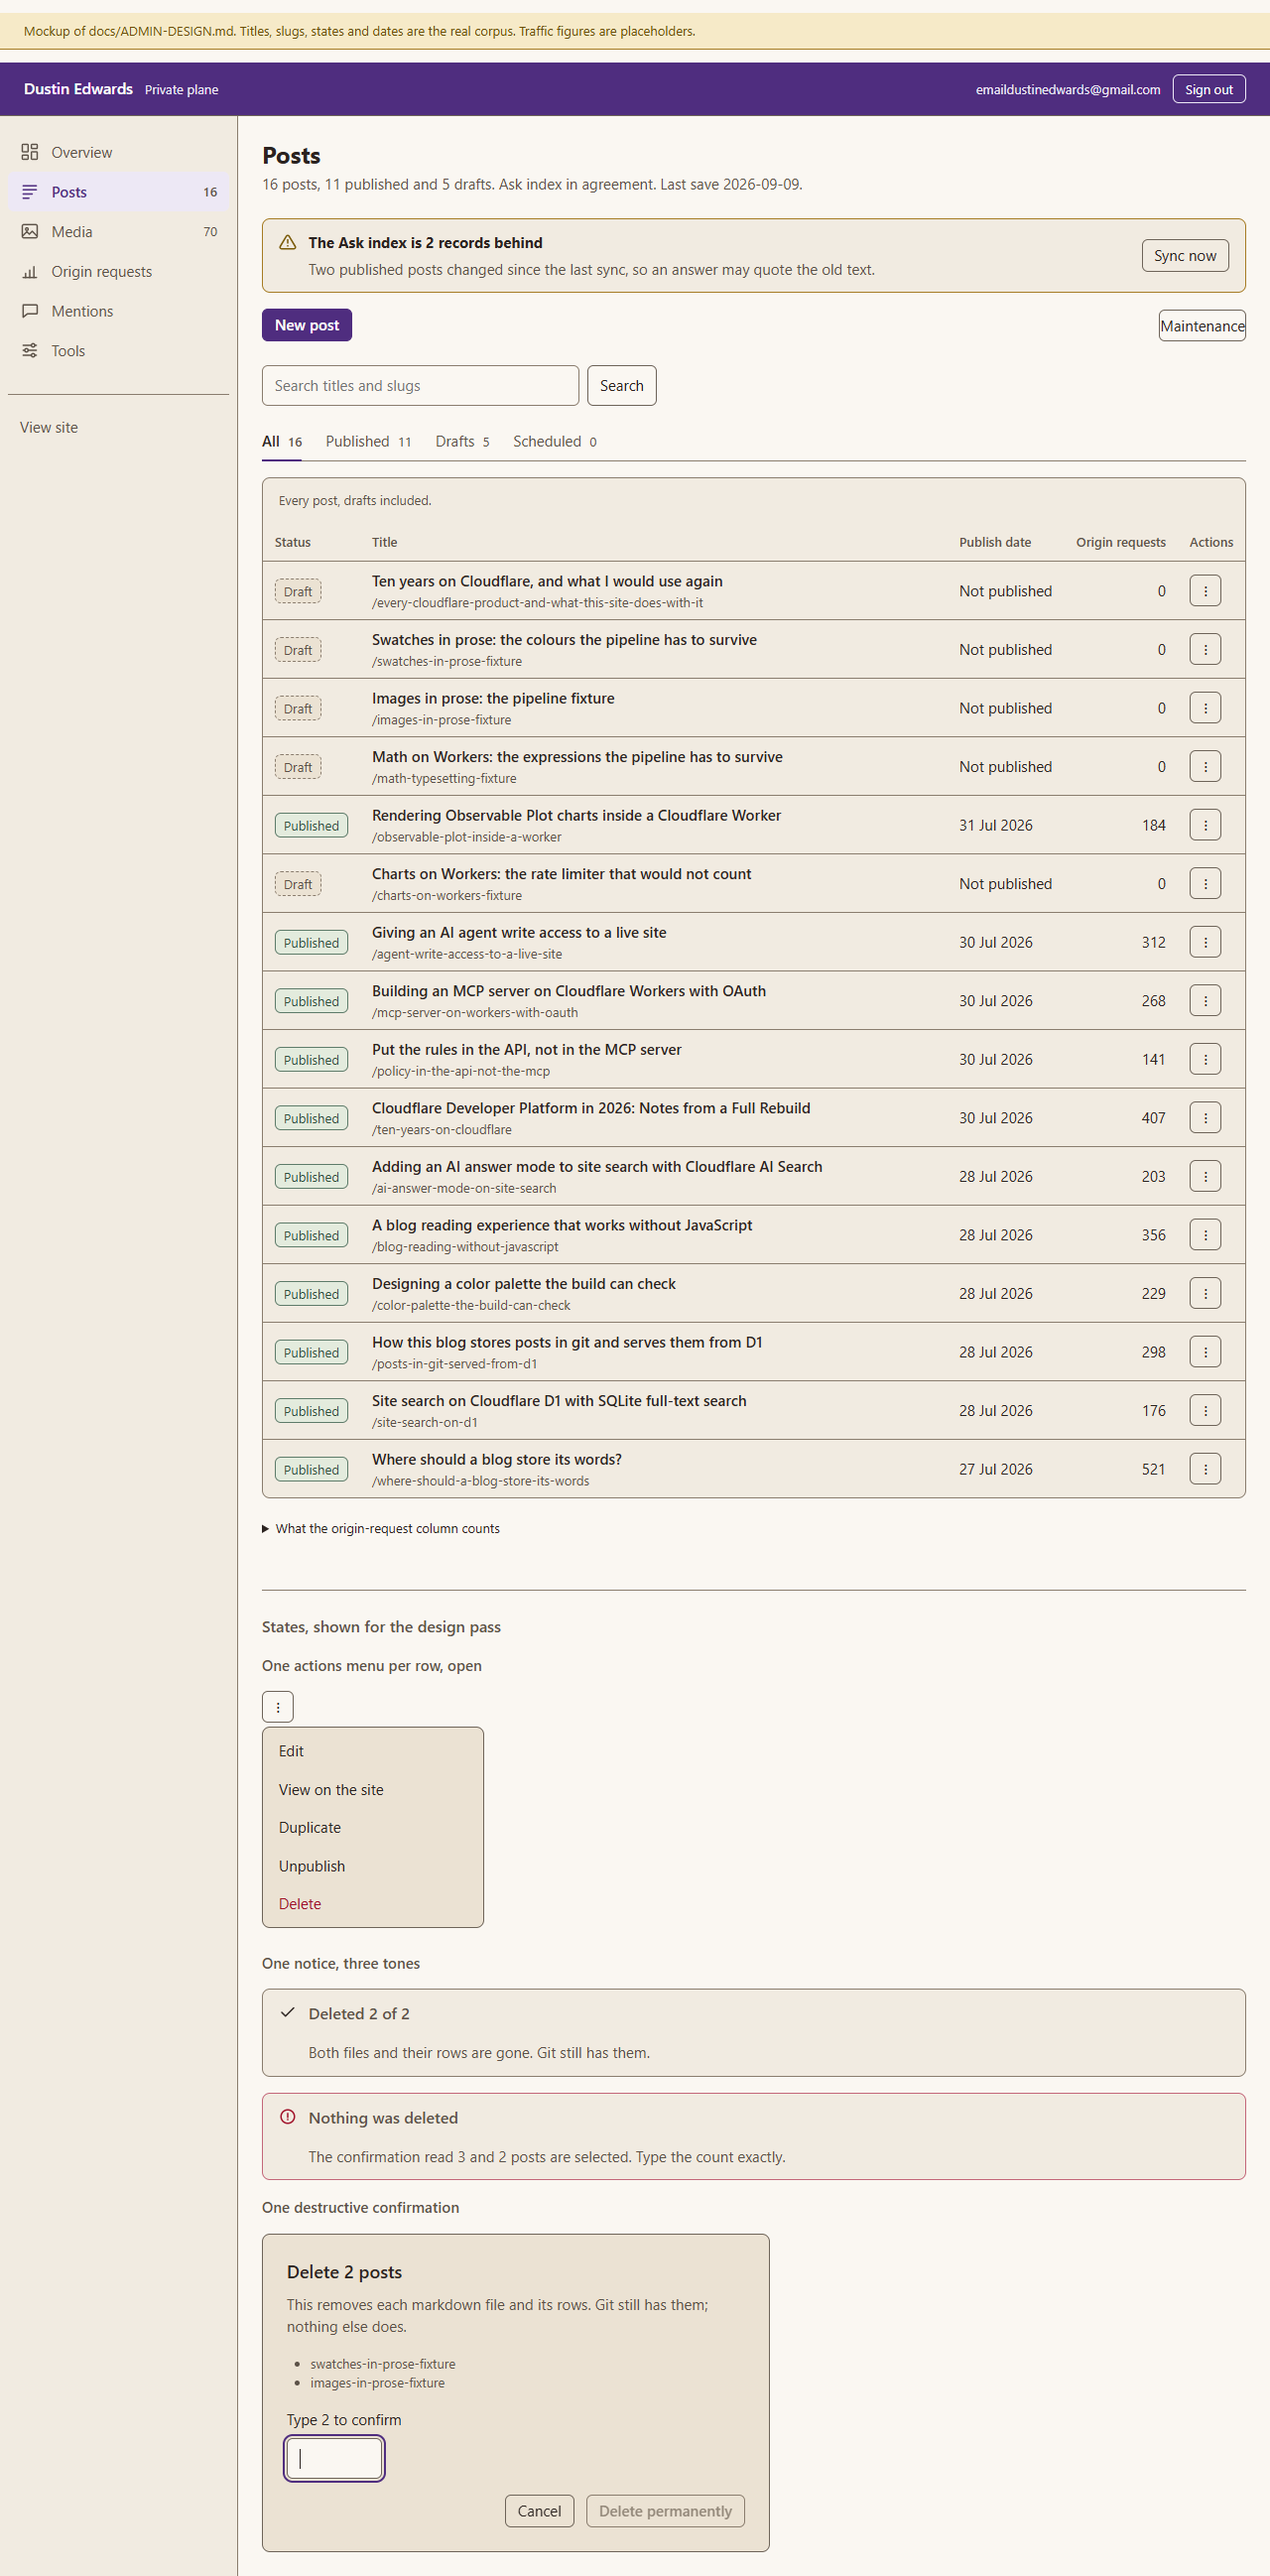
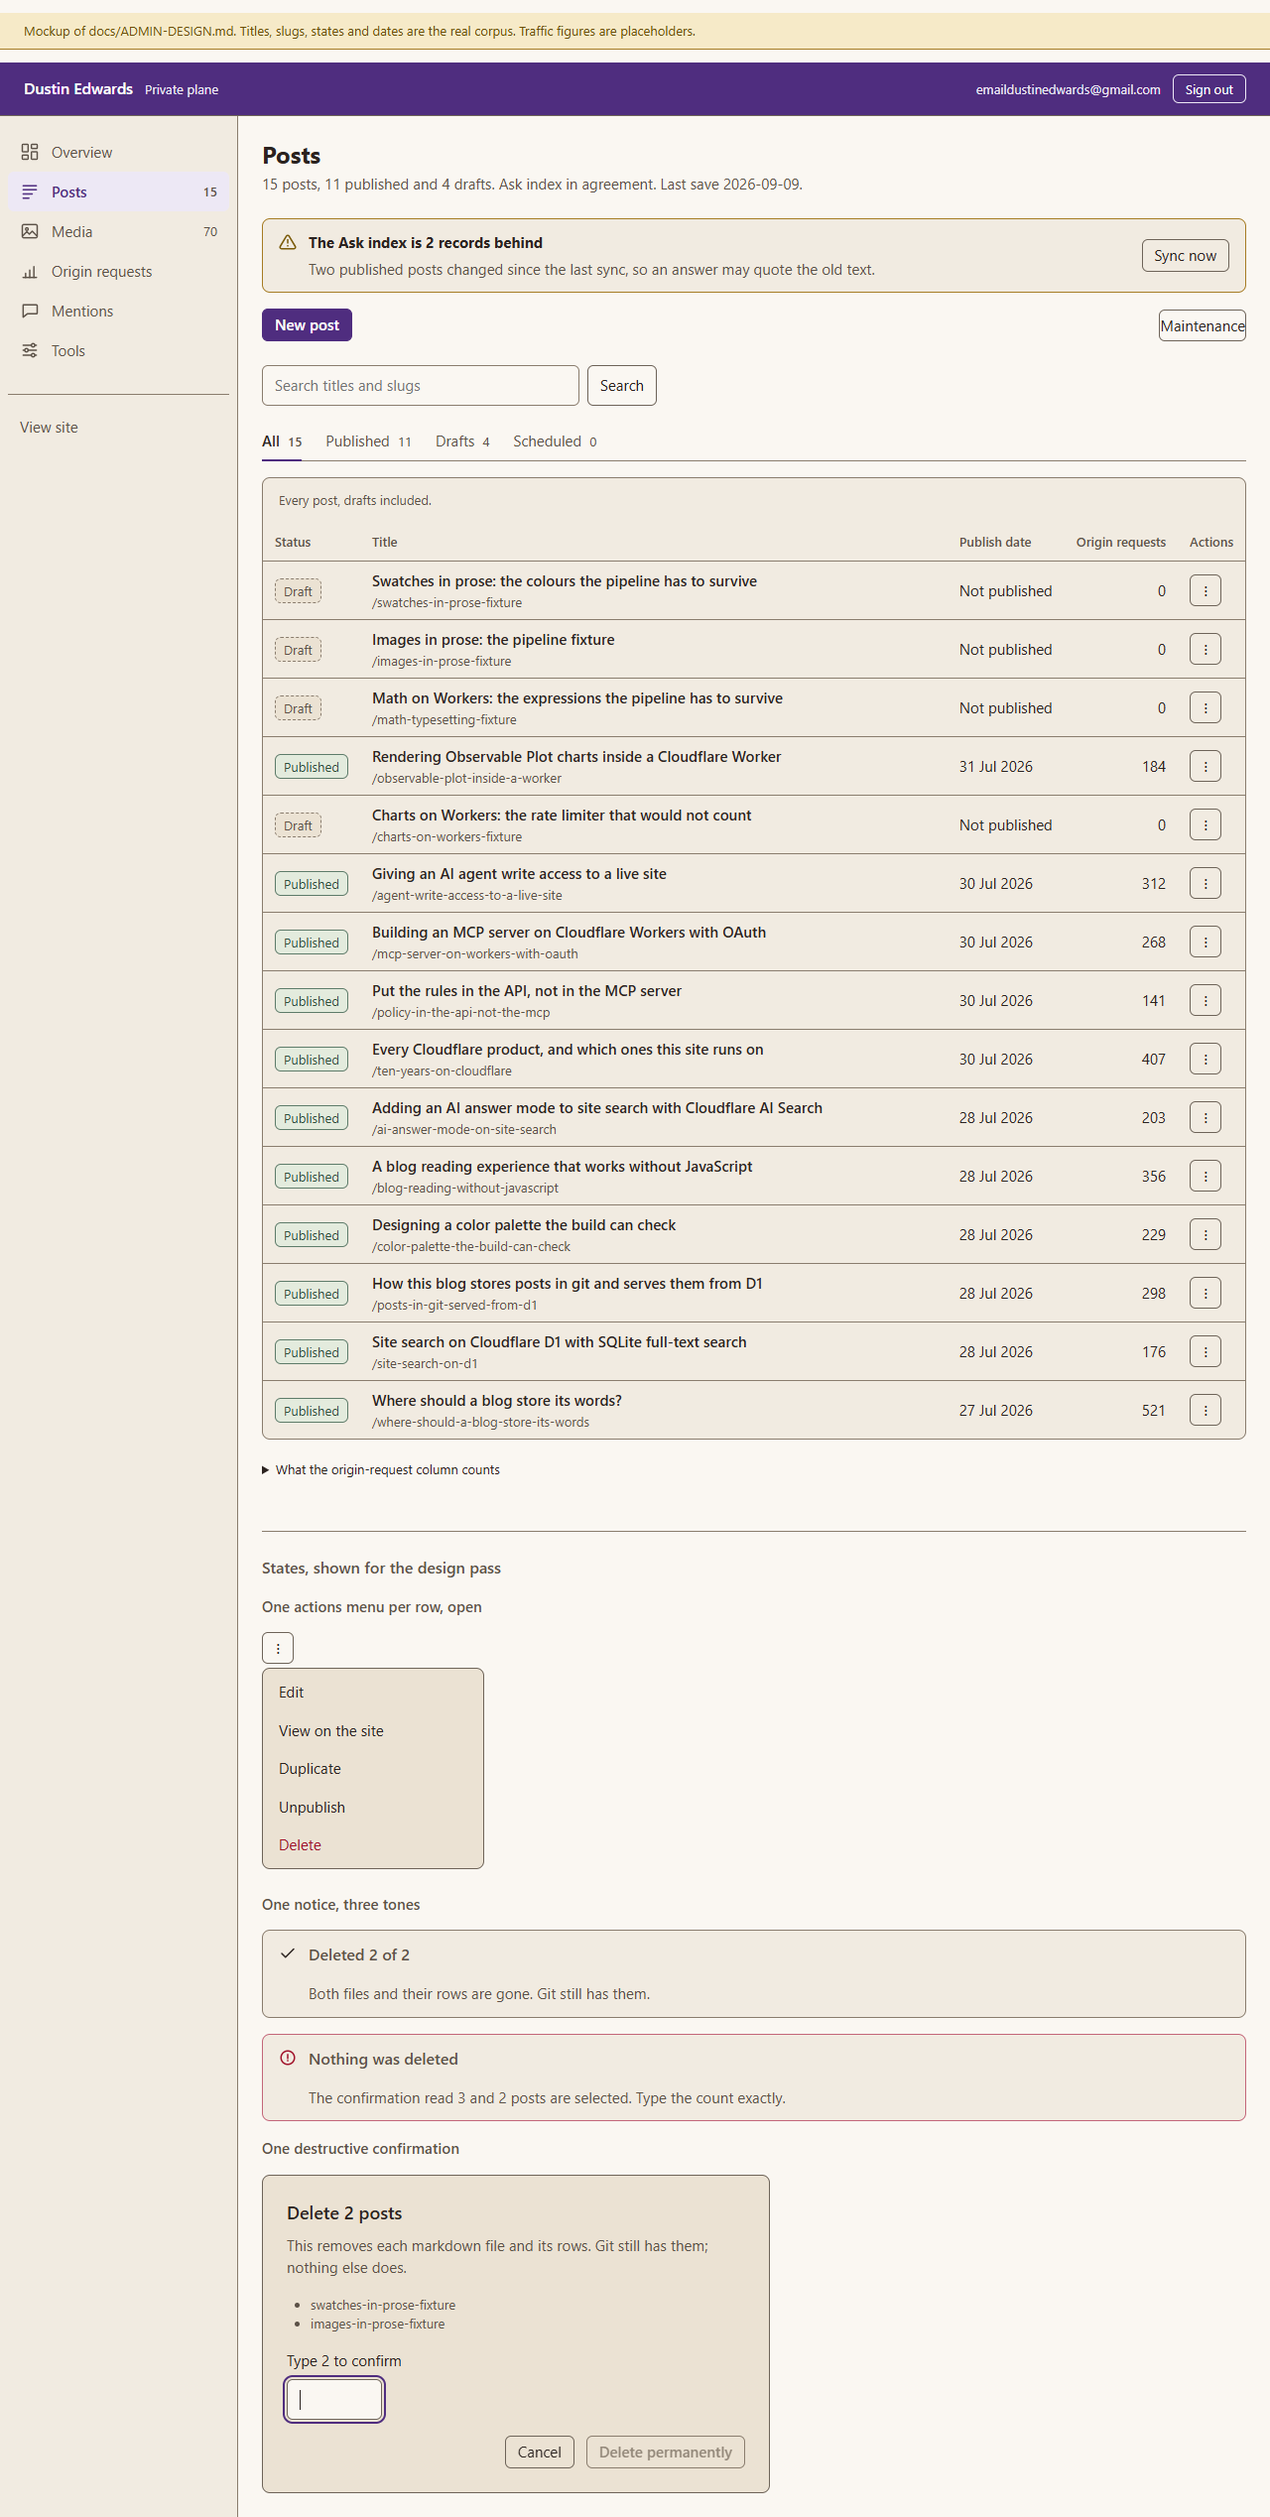
Re-measure the mockup corpus after the flagship draft was removed
The mockups were built against a clone that was two commits behind: the seat
removed every-cloudflare-product-and-what-this-site-does-with-it and retitled
ten-years-on-cloudflare in 85113a6. Fifteen posts, eleven published and four
drafts, re-read off content/posts after the rebase. All eight screenshots
re-rendered.

diff --git a/docs/admin-mockups/posts.html b/docs/admin-mockups/posts.html
@@ -271,7 +271,7 @@ dialog.confirm input[type="text"] {
 
   <nav class="rail" aria-label="Admin sections">
     <a href="#"><svg viewBox="0 0 24 24" fill="none" stroke="currentColor" stroke-width="1.75" aria-hidden="true"><rect x="3" y="3" width="7" height="9" rx="1"/><rect x="14" y="3" width="7" height="5" rx="1"/><rect x="14" y="12" width="7" height="9" rx="1"/><rect x="3" y="16" width="7" height="5" rx="1"/></svg>Overview</a>
-    <a href="#" aria-current="page"><svg viewBox="0 0 24 24" fill="none" stroke="currentColor" stroke-width="1.75" stroke-linecap="round" aria-hidden="true"><path d="M4 5h16M4 10h16M4 15h11M4 20h7"/></svg>Posts<span class="count">16</span></a>
+    <a href="#" aria-current="page"><svg viewBox="0 0 24 24" fill="none" stroke="currentColor" stroke-width="1.75" stroke-linecap="round" aria-hidden="true"><path d="M4 5h16M4 10h16M4 15h11M4 20h7"/></svg>Posts<span class="count">15</span></a>
     <a href="#"><svg viewBox="0 0 24 24" fill="none" stroke="currentColor" stroke-width="1.75" stroke-linecap="round" stroke-linejoin="round" aria-hidden="true"><rect x="3" y="4" width="18" height="16" rx="2"/><circle cx="8.5" cy="9.5" r="1.5"/><path d="m4 17 4.5-4.5 3 3 3.5-3.5 5 5"/></svg>Media<span class="count">70</span></a>
     <a href="#"><svg viewBox="0 0 24 24" fill="none" stroke="currentColor" stroke-width="1.75" stroke-linecap="round" aria-hidden="true"><path d="M4 20h16"/><path d="M7 20v-5M12 20v-9M17 20v-13"/></svg>Origin requests</a>
     <a href="#"><svg viewBox="0 0 24 24" fill="none" stroke="currentColor" stroke-width="1.75" stroke-linejoin="round" aria-hidden="true"><path d="M4 5h16a1 1 0 0 1 1 1v9a1 1 0 0 1-1 1H9l-5 4V6a1 1 0 0 1 1-1z"/></svg>Mentions</a>
@@ -284,7 +284,7 @@ dialog.confirm input[type="text"] {
 
     <div class="page-head">
       <h1>Posts</h1>
-      <p class="page-status">16 posts, 11 published and 5 drafts. Ask index in agreement. Last save 2026-09-09.</p>
+      <p class="page-status">15 posts, 11 published and 4 drafts. Ask index in agreement. Last save 2026-09-09.</p>
     </div>
 
     <section class="notice" data-tone="warning" aria-labelledby="drift-title">
@@ -309,9 +309,9 @@ dialog.confirm input[type="text"] {
     </form>
 
     <nav class="tabs" aria-label="Filter posts by status">
-      <a href="?status=" aria-current="page">All <span class="n">16</span></a>
+      <a href="?status=" aria-current="page">All <span class="n">15</span></a>
       <a href="?status=published">Published <span class="n">11</span></a>
-      <a href="?status=draft">Drafts <span class="n">5</span></a>
+      <a href="?status=draft">Drafts <span class="n">4</span></a>
       <a href="?status=scheduled">Scheduled <span class="n">0</span></a>
     </nav>
 
@@ -328,13 +328,6 @@ dialog.confirm input[type="text"] {
           </tr>
         </thead>
         <tbody>
-          <tr>
-            <td><span class="pill" data-state="draft">Draft</span></td>
-            <td class="col-title"><a href="#">Ten years on Cloudflare, and what I would use again</a><span class="slug">/every-cloudflare-product-and-what-this-site-does-with-it</span></td>
-            <td>Not published</td>
-            <td class="num">0</td>
-            <td><details class="rowmenu"><summary aria-label="Actions for Ten years on Cloudflare, and what I would use again">&#8942;</summary></details></td>
-          </tr>
           <tr>
             <td><span class="pill" data-state="draft">Draft</span></td>
             <td class="col-title"><a href="#">Swatches in prose: the colours the pipeline has to survive</a><span class="slug">/swatches-in-prose-fixture</span></td>
@@ -393,10 +386,10 @@ dialog.confirm input[type="text"] {
           </tr>
           <tr>
             <td><span class="pill" data-state="published">Published</span></td>
-            <td class="col-title"><a href="#">Cloudflare Developer Platform in 2026: Notes from a Full Rebuild</a><span class="slug">/ten-years-on-cloudflare</span></td>
+            <td class="col-title"><a href="#">Every Cloudflare product, and which ones this site runs on</a><span class="slug">/ten-years-on-cloudflare</span></td>
             <td>30 Jul 2026</td>
             <td class="num">407</td>
-            <td><details class="rowmenu"><summary aria-label="Actions for Cloudflare Developer Platform in 2026">&#8942;</summary></details></td>
+            <td><details class="rowmenu"><summary aria-label="Actions for Every Cloudflare product">&#8942;</summary></details></td>
           </tr>
           <tr>
             <td><span class="pill" data-state="published">Published</span></td>

diff --git a/docs/admin-mockups/overview.html b/docs/admin-mockups/overview.html
@@ -250,7 +250,7 @@ tbody th { font-weight:500; color:var(--text-heading); }
 
   <nav class="rail" aria-label="Admin sections">
     <a href="#" aria-current="page"><svg viewBox="0 0 24 24" fill="none" stroke="currentColor" stroke-width="1.75" aria-hidden="true"><rect x="3" y="3" width="7" height="9" rx="1"/><rect x="14" y="3" width="7" height="5" rx="1"/><rect x="14" y="12" width="7" height="9" rx="1"/><rect x="3" y="16" width="7" height="5" rx="1"/></svg>Overview</a>
-    <a href="#"><svg viewBox="0 0 24 24" fill="none" stroke="currentColor" stroke-width="1.75" stroke-linecap="round" aria-hidden="true"><path d="M4 5h16M4 10h16M4 15h11M4 20h7"/></svg>Posts<span class="count">16</span></a>
+    <a href="#"><svg viewBox="0 0 24 24" fill="none" stroke="currentColor" stroke-width="1.75" stroke-linecap="round" aria-hidden="true"><path d="M4 5h16M4 10h16M4 15h11M4 20h7"/></svg>Posts<span class="count">15</span></a>
     <a href="#"><svg viewBox="0 0 24 24" fill="none" stroke="currentColor" stroke-width="1.75" stroke-linecap="round" stroke-linejoin="round" aria-hidden="true"><rect x="3" y="4" width="18" height="16" rx="2"/><circle cx="8.5" cy="9.5" r="1.5"/><path d="m4 17 4.5-4.5 3 3 3.5-3.5 5 5"/></svg>Media<span class="count">70</span></a>
     <a href="#"><svg viewBox="0 0 24 24" fill="none" stroke="currentColor" stroke-width="1.75" stroke-linecap="round" aria-hidden="true"><path d="M4 20h16"/><path d="M7 20v-5M12 20v-9M17 20v-13"/></svg>Origin requests</a>
     <a href="#"><svg viewBox="0 0 24 24" fill="none" stroke="currentColor" stroke-width="1.75" stroke-linejoin="round" aria-hidden="true"><path d="M4 5h16a1 1 0 0 1 1 1v9a1 1 0 0 1-1 1H9l-5 4V6a1 1 0 0 1 1-1z"/></svg>Mentions</a>
@@ -296,13 +296,13 @@ tbody th { font-weight:500; color:var(--text-heading); }
           <tr>
             <th scope="row">content-drift</th>
             <td><span class="pill" data-state="failing">Failing</span></td>
-            <td class="col-finding">Content drift 2: 2 sha-changed, 0 file(s) with no row, 0 row(s) with no file, against 16 post file(s). Repair with sync_posts on the operator API.</td>
+            <td class="col-finding">Content drift 2: 2 sha-changed, 0 file(s) with no row, 0 row(s) with no file, against 15 post file(s). Repair with sync_posts on the operator API.</td>
             <td><details class="rowmenu"><summary aria-label="Actions for content-drift">&#8942;</summary></details></td>
           </tr>
           <tr>
             <th scope="row">ask-index-drift</th>
             <td><span class="pill" data-state="ok">Passing</span></td>
-            <td class="col-finding">Ask index agrees with D1: 16 expected, 16 present.</td>
+            <td class="col-finding">Ask index agrees with D1: 15 expected, 15 present.</td>
             <td><details class="rowmenu"><summary aria-label="Actions for ask-index-drift">&#8942;</summary></details></td>
           </tr>
           <tr>
@@ -320,7 +320,7 @@ tbody th { font-weight:500; color:var(--text-heading); }
           <tr>
             <th scope="row">fts-equality</th>
             <td><span class="pill" data-state="ok">Passing</span></td>
-            <td class="col-finding">FTS indexes agree: posts=16=posts_fts_docsize, search_docs=174=identity=prose.</td>
+            <td class="col-finding">FTS indexes agree: posts=15=posts_fts_docsize, search_docs=174=identity=prose.</td>
             <td><details class="rowmenu"><summary aria-label="Actions for fts-equality">&#8942;</summary></details></td>
           </tr>
         </tbody>
@@ -340,12 +340,12 @@ tbody th { font-weight:500; color:var(--text-heading); }
     <div class="figures">
       <div class="figure">
         <p class="label"><span class="dot" data-status="ok" aria-hidden="true"></span>Artifact</p>
-        <p class="value">16</p>
-        <p class="hint">post files in the repository at 6c578bd</p>
+        <p class="value">15</p>
+        <p class="hint">post files in the repository at b67abce</p>
       </div>
       <div class="figure">
         <p class="label"><span class="dot" data-status="warn" aria-hidden="true"></span>D1 posts</p>
-        <p class="value">14</p>
+        <p class="value">13</p>
         <p class="hint">11 publicly visible, 2 behind the repository</p>
       </div>
       <div class="figure">
